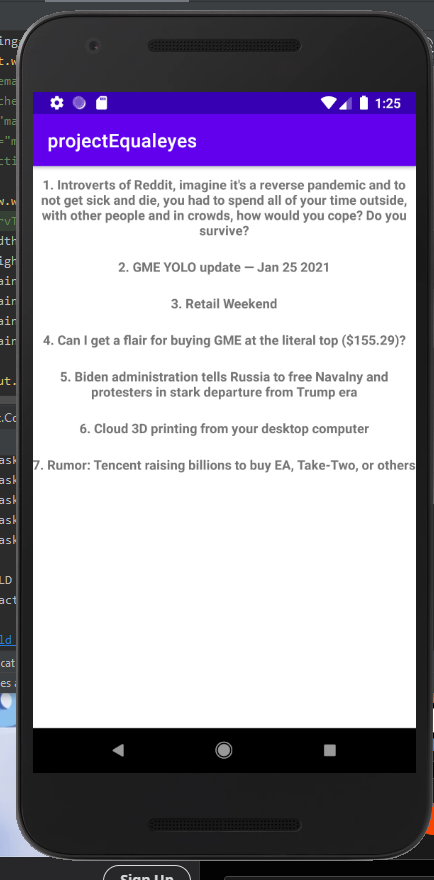
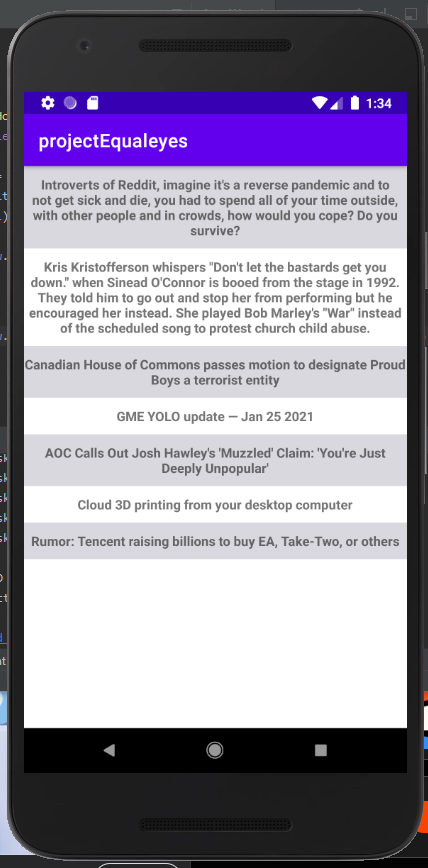
changed visualise RecyclerView changed screenshot 2

diff --git a/app/src/main/java/com/example/projectequaleyes/TitlesAdapter.java b/app/src/main/java/com/example/projectequaleyes/TitlesAdapter.java
@@ -1,6 +1,7 @@
 package com.example.projectequaleyes;
 
 import android.content.Context;
+import android.graphics.Color;
 import android.view.LayoutInflater;
 import android.view.View;
 import android.view.ViewGroup;
@@ -32,6 +33,14 @@ public class TitlesAdapter extends
 
         TextView textView = holder.titleTextView;
         textView.setText(title.getTitle());
+        if(position %2 == 1)
+        {
+            holder.itemView.setBackgroundColor(Color.parseColor("#FFFFFF"));
+        }
+        else
+        {
+            holder.itemView.setBackgroundColor(Color.parseColor("#DAD2D1D8"));
+        }
     }
 
     @Override

diff --git a/app/src/main/java/com/example/projectequaleyes/Titles.java b/app/src/main/java/com/example/projectequaleyes/Titles.java
@@ -14,10 +14,8 @@ public class Titles{
 
     public static ArrayList<Titles> createTitlesList(Elements ele) {
         ArrayList<Titles> titles = new ArrayList<Titles>();
-        int i = 0;
         for (Element e : ele) {
-            i++;
-            titles.add(new Titles(i + ". " + e.text()));
+            titles.add(new Titles(e.text()));
         }
         return titles;
     }
